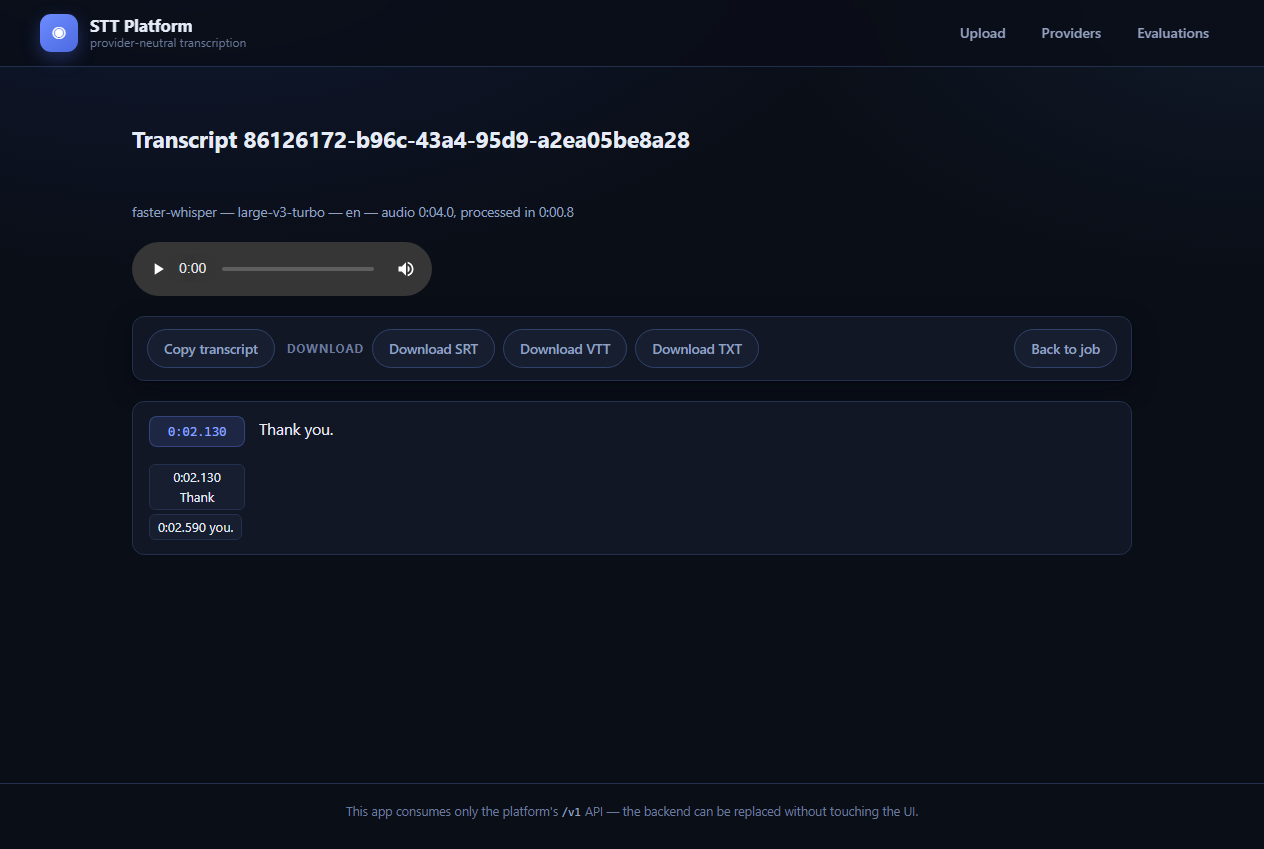
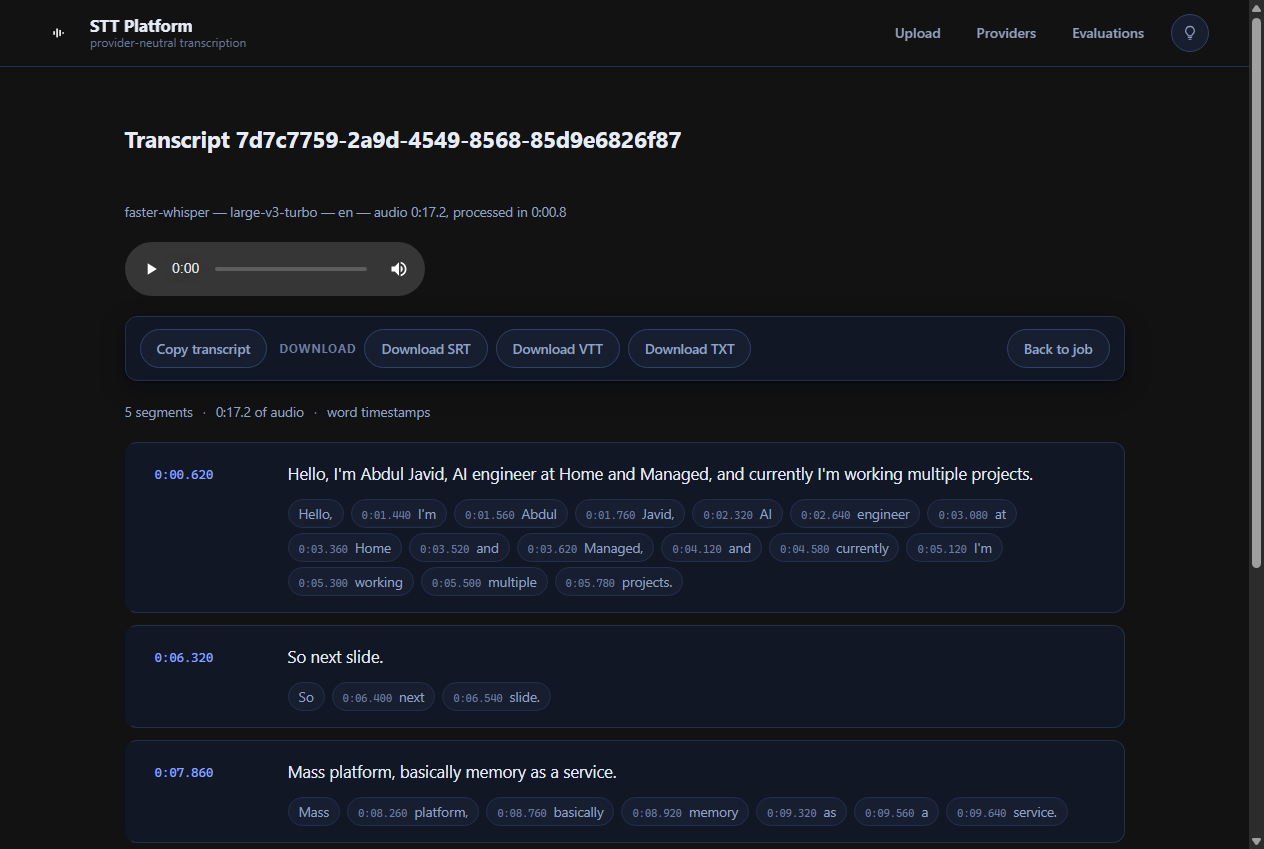
docs(ui): theme, live preview, transcript notes and a fresh screenshot set
docs/ui.md documents the theme rule (choice > OS > dark, applied before
first paint, color-scheme for native controls), the icon set, the live
preview contract, and the transcript layout; docs/api.md documents
POST /v1/transcriptions/preview including its three contractual
properties; the README gets a light/dark and mobile screenshot set.

Screenshots are live captures from a real browser against the real
backend (Chrome fake capture device fed a real WAV).

diff --git a/docs/ui.md b/docs/ui.md
@@ -18,10 +18,73 @@ frontend/
 
 ## Screenshots
 
-`docs/images/` holds live captures of every page (upload/recorder, recorder
-preview, job tracker, transcript, providers, evaluations); the README embeds
-the main ones and `ui-recorder-preview.png` shows a finished take before it is
-submitted.
+`docs/images/` holds live captures taken from a real browser against the real
+backend:
+
+| File | Shows |
+|---|---|
+| `ui-upload.png` | upload tab, dark |
+| `ui-recorder.png`, `ui-recorder-preview.png` | recording, and a finished take before it is submitted |
+| `ui-live.png`, `ui-live-light.png` | live transcription while recording (dark / light) |
+| `ui-transcript.png`, `ui-transcript-light.png` | the transcript page (dark / light) |
+| `ui-job.png`, `ui-job-light.png` | lifecycle tracker and job metadata |
+| `ui-providers.png`, `ui-evaluations.png` | capability matrix, evaluation comparison |
+| `ui-mobile.png` | 390 px viewport, light theme |
+
+## Theme
+
+Light and dark are the same token set, re-pointed (`:root` for dark,
+`:root[data-theme="light"]` for light); no component knows which is active.
+`useTheme` owns the rule:
+
+- an explicit choice (localStorage `stt.theme`) beats the operating system,
+  which beats the dark default;
+- while no choice has been made, a system change is followed live;
+- the choice is applied **before first paint** — `index.html` carries a tiny
+  inline script with the same rule, so a light-mode user never sees a dark
+  flash — and `main.tsx` re-applies it, keeping both in lockstep
+  (`src/shell.test.ts` asserts the key and the attribute stay in sync);
+- `color-scheme` is set alongside `data-theme`, so native controls (audio
+  player, selects, file picker, scrollbars) match without CSS hacks.
+
+The bulb in the header is the only switch: outline in dark (light is what you
+would switch *to*), lit in light. Its accessible name states the action and
+`aria-pressed` states the position — colour is never the only signal.
+
+## Icons
+
+`public/favicon.svg` is the app mark (a waveform in a rounded gradient
+square); `favicon-32.png` and `apple-touch-icon.png` are generated from the
+same geometry, and `manifest.webmanifest` lists all three. The header renders
+the identical SVG (`components/BrandMark.tsx`), so the tab and the app cannot
+drift apart.
+
+## Live transcription
+
+While the microphone is open, `useLivePreview` sends the audio captured so far
+to `POST /v1/transcriptions/preview` and shows the text that comes back — the
+whole take is re-transcribed each tick, so the text grows instead of showing
+seams.
+
+- **Local model only.** The backend refuses a managed provider with
+  `LIVE_PREVIEW_LOCAL_ONLY`; the panel says so in words.
+- **Nothing is persisted.** No job, no object, no trail — see `docs/api.md`.
+- **A preview failure never touches the recording.** The panel reports it and
+  the take carries on; the submit path is unchanged.
+- **Requests never stack.** One preview is in flight at a time, in-flight work
+  is aborted when recording stops, and the asking stops at
+  `STT_MAX_LIVE_PREVIEW_DURATION_S` (the panel says the full job takes over).
+
+## Transcript
+
+The transcript is the hero of the page and is laid out as a reading surface:
+a monospaced time gutter you can click to seek, the segment text at the
+largest size, and word chips below it that stay quiet until you look at them.
+The active segment and the active word are marked on the element, so playback
+position is visible at a glance. Per-segment copy, one-click copy of the whole
+text, and TXT/SRT/VTT export sit in the toolbar; a summary line states the
+segment count, the audio duration and the timestamp granularity actually
+present.
 
 ## Pages
 
@@ -77,7 +140,14 @@ the file size — is never used.
 - `src/components/Recorder.test.tsx`, `JobStages.test.tsx` — panel behaviour and
   the lifecycle tracker's honest handling of failed/cancelled jobs.
 - Page tests — upload (file, drop, record), job, transcript (copy, empty
-  transcript), providers, evaluations (numbers *and* meters).
+  transcript, summary), providers, evaluations (numbers *and* meters).
+- `src/lib/theme.test.ts`, `src/hooks/useTheme.test.tsx`,
+  `src/components/ThemeToggle.test.tsx` — precedence, persistence, following
+  the system only until the user chooses.
+- `src/hooks/useLivePreview.test.tsx` — cadence, the minimum-audio wait, the
+  cap, no stacking, and a failing preview leaving everything else alone.
+- `src/shell.test.ts` — the favicon set, the pre-paint theme boot and the
+  theme-colour metas in `index.html`.
 
 jsdom ships neither `MediaRecorder` nor `getUserMedia`; controllable stand-ins
 live in `src/test/mediaRecorder.ts`. jsdom's `Blob` has no `.text()` — read

diff --git a/README.md b/README.md
@@ -158,13 +158,23 @@ VALIDATING -> STORED -> QUEUED -> PROCESSING -> RETRY_WAIT -> QUEUED -> PROCESSI
 
 | | |
 |---|---|
-| ![Upload](docs/images/ui-upload.png) | ![Recording](docs/images/ui-recorder.png) |
-| Upload a file, or record in the browser | Recording from the microphone, with timer and level |
-| ![Job](docs/images/ui-job.png) | ![Evaluations](docs/images/ui-evaluations.png) |
-| Job lifecycle tracker, provider, model, timings | Evaluation comparison, error rates as meters |
+| ![Upload](docs/images/ui-upload.png) | ![Live preview](docs/images/ui-live.png) |
+| Upload a file, or record in the browser | Live transcription while the microphone is open |
+| ![Transcript](docs/images/ui-transcript.png) | ![Transcript, light](docs/images/ui-transcript-light.png) |
+| Transcript: time gutter, segments, word chips | The same page in light mode |
+| ![Mobile](docs/images/ui-mobile.png) | ![Evaluations](docs/images/ui-evaluations.png) |
+| Mobile, light mode | Evaluation comparison, error rates as meters |
 
 The transcript page (top of this README) renders segments with word-level
 timestamps, copies the plain text in one click, and exports TXT/SRT/VTT.
+
+**Live transcription while you speak.** While the microphone is open the page
+sends the audio captured so far to `POST /v1/transcriptions/preview` every few
+seconds and shows the text as it grows. The preview is deliberately modest: it
+runs on the **local** model only (a managed API would be dialled every few
+seconds, spending quota nobody asked to spend), it creates no job, stores no
+audio, and returns `is_final: false` so it can never be mistaken for the
+transcript your chosen provider writes afterwards.
 
 **Recording in the browser.** The upload page has a *Record audio* tab: the
 browser captures the microphone with `MediaRecorder`, shows a live timer and
@@ -174,6 +184,12 @@ special case. The microphone is released on stop, on discard, and on leaving
 the page. Browser recordings are streaming WebM with **no duration header**;
 the platform measures the real duration by decoding the stream instead of
 rejecting the file (see `docs/ui.md`).
+
+**Light and dark.** The header carries a bulb: the app follows your operating
+system until you choose, remembers the choice, applies it before the first
+paint (no flash), and hands `color-scheme` to the browser so native controls —
+the audio player, selects, the file picker — match. The favicon, the app icon
+and the manifest ship with it.
 
 ## Providers
 
@@ -229,6 +245,7 @@ the health probes requires an `X-API-Key` header.
 | `POST` | `/transcriptions/{id}/cancel` | cancel a queued or running job |
 | `DELETE` | `/transcriptions/{id}` | delete job + objects + rows (tenant-scoped) |
 | `POST` | `/transcriptions/uploads/presign` | presigned upload for large files |
+| `POST` | `/transcriptions/preview` | live preview while recording — transient, local provider only |
 | `GET` | `/providers` | capability matrix with provenance per capability |
 | `POST` | `/evaluations` | run an evaluation against a reference dataset |
 | `GET` | `/evaluations`, `/evaluations/{id}` | run history and comparison |

diff --git a/docs/api.md b/docs/api.md
@@ -9,6 +9,7 @@ and `/openapi.json` (OpenAPI 3.1, generated by FastAPI).
 |---|---|---|---|---|
 | POST | `/v1/transcriptions` | create a job — multipart `file` **or** form `object_key` (exactly one), optional form `provider` / `language`, optional header `Idempotency-Key` | **201** sync (terminal job) or **202** async (`QUEUED`) `JobRecord` + `Location` | 413 `UPLOAD_TOO_LARGE`, 415 `UNSUPPORTED_MEDIA`, 422 `AUDIO_TOO_LONG` / `PROVIDER_NOT_FOUND` / `VALIDATION_ERROR` / `INVALID_OBJECT_KEY`, 503 `STORAGE_NOT_CONFIGURED` |
 | POST | `/v1/transcriptions/uploads/presign` | get a one-shot PUT URL for a large original (JSON `{"filename": "x.wav"}`) | 200 `{object_key, upload_url, method, expires_in_s}` | 503 `STORAGE_NOT_CONFIGURED` |
+| POST | `/v1/transcriptions/preview` | live preview of the audio captured so far: multipart `file`, optional form `provider` / `language`. No job, no storage, nothing persisted | 200 `LivePreviewResponse` (`is_final: false`) | 415 `UNSUPPORTED_MEDIA`, 422 `LIVE_PREVIEW_LOCAL_ONLY` (managed provider) / `AUDIO_TOO_LONG` (past `STT_MAX_LIVE_PREVIEW_DURATION_S`, default 120 s) / `VALIDATION_ERROR`, 413 `UPLOAD_TOO_LARGE` |
 | GET | `/v1/transcriptions/{id}` | job status / record | 200 `JobRecord` | 404 `JOB_NOT_FOUND` |
 | GET | `/v1/transcriptions/{id}/result` | canonical transcript | 200 `TranscriptResult` | 404 `JOB_NOT_FOUND`, 409 `JOB_NOT_READY` |
 | POST | `/v1/transcriptions/{id}/retry` | retry a retryable failure (sync: reprocess inline; async: re-enqueue a new workflow) | 200 `JobRecord` | 404, 409 `INVALID_TRANSITION` |
@@ -16,6 +17,30 @@ and `/openapi.json` (OpenAPI 3.1, generated by FastAPI).
 | GET | `/v1/providers` | providers with capabilities + health | 200 | — |
 | GET | `/v1/health/live` | liveness | 200 `{"status":"ok"}` | — |
 | GET | `/v1/health/ready` | readiness (PostgreSQL `SELECT 1`) | 200 `{"status":"ready"}` | 503 `{"status":"not_ready"}` |
+
+## Live preview (while recording)
+
+```bash
+# the audio captured so far, sent every few seconds by the browser
+curl -s -X POST http://127.0.0.1:8200/v1/transcriptions/preview   -F file=@take-so-far.webm -F language=en
+# → {"text":"Hello, I'm ...","segments":[…],"provider":"faster-whisper",
+#    "model":"large-v3-turbo","audio_duration_s":7.4,"is_final":false}
+```
+
+Three properties are contractual, not incidental:
+
+1. **Local provider only.** A managed provider answers `422
+   LIVE_PREVIEW_LOCAL_ONLY`. The preview fires every few seconds; routing that
+   to a paid API would spend quota on the caller's behalf.
+2. **Nothing is persisted.** No `jobs` row, no object in storage, no
+   evaluation; the uploaded bytes are deleted before the response is returned.
+3. **It is not the transcript.** `is_final` is always `false` and there is no
+   `job_id` — the finished artifact still comes from
+   `GET /v1/transcriptions/{id}/result`.
+
+The text is produced by re-transcribing the whole take each tick, which is why
+it grows monotonically instead of showing seams; `STT_MAX_LIVE_PREVIEW_DURATION_S`
+bounds what that costs.
 
 ## Sync vs async routing (server-side, never client-controlled)
 
